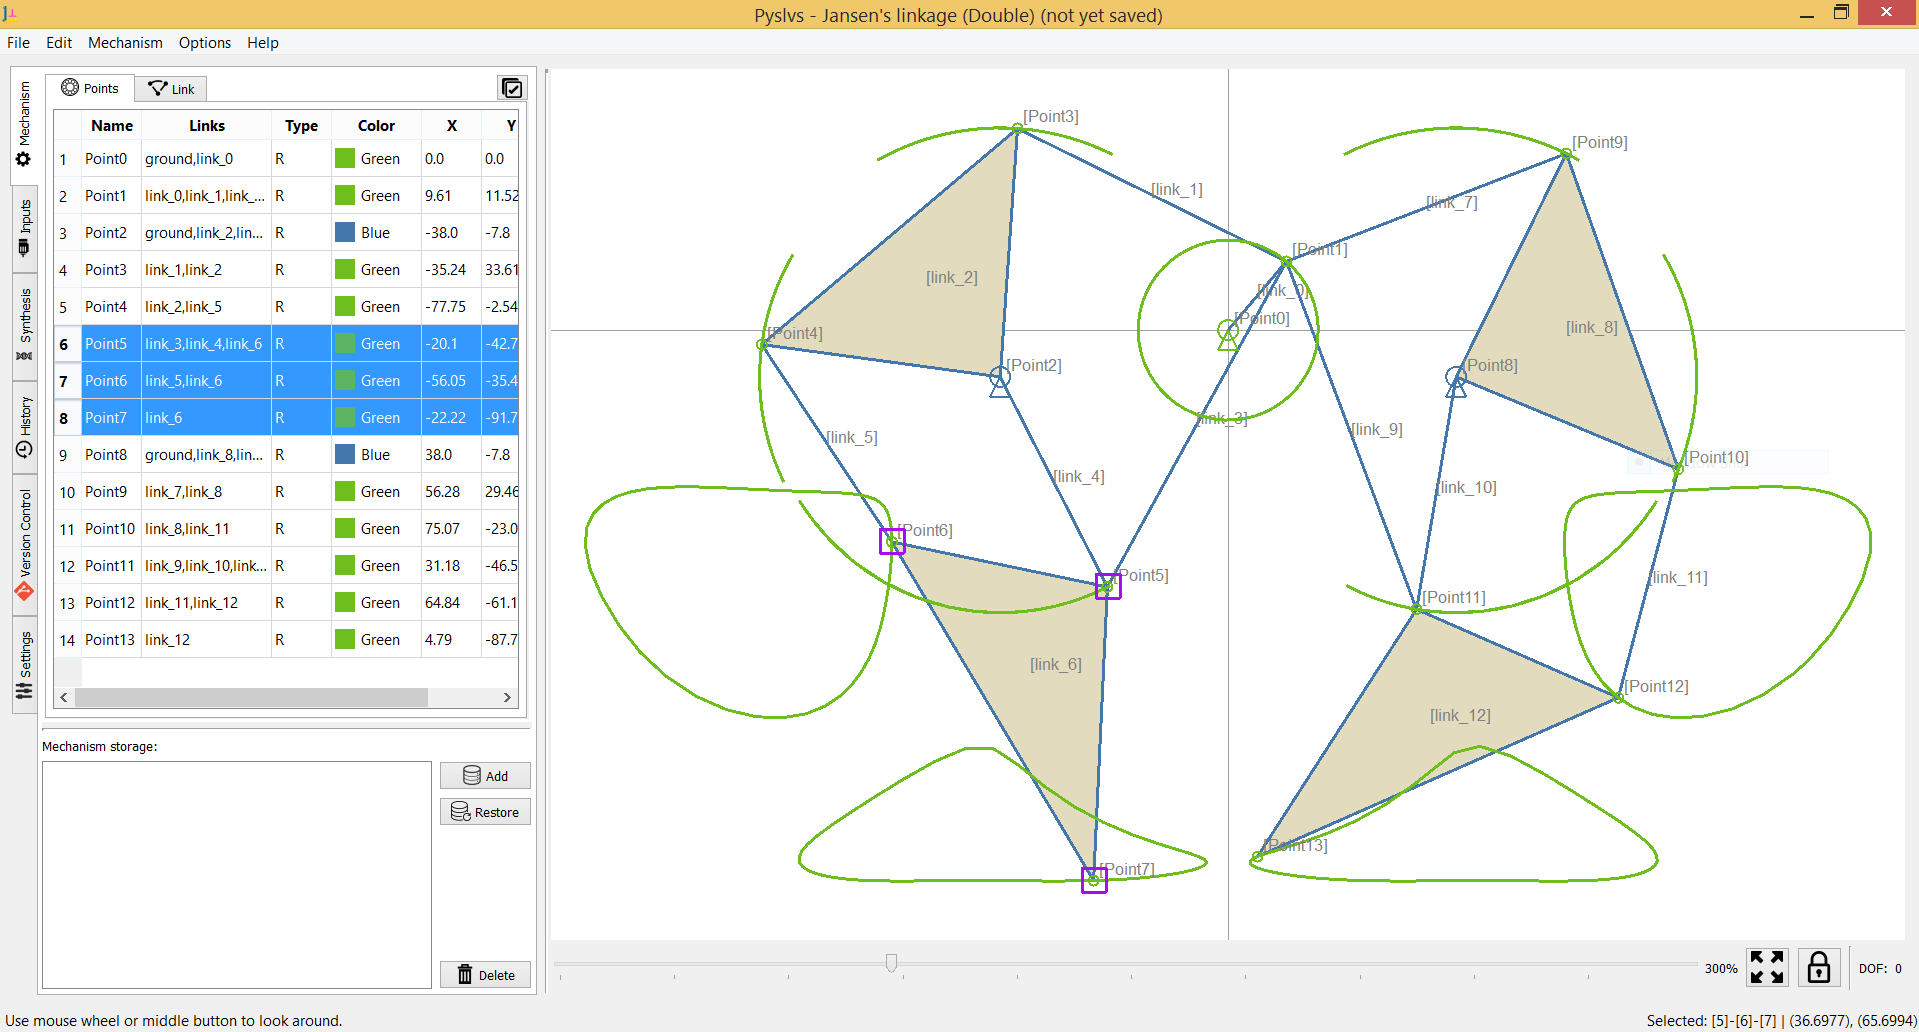
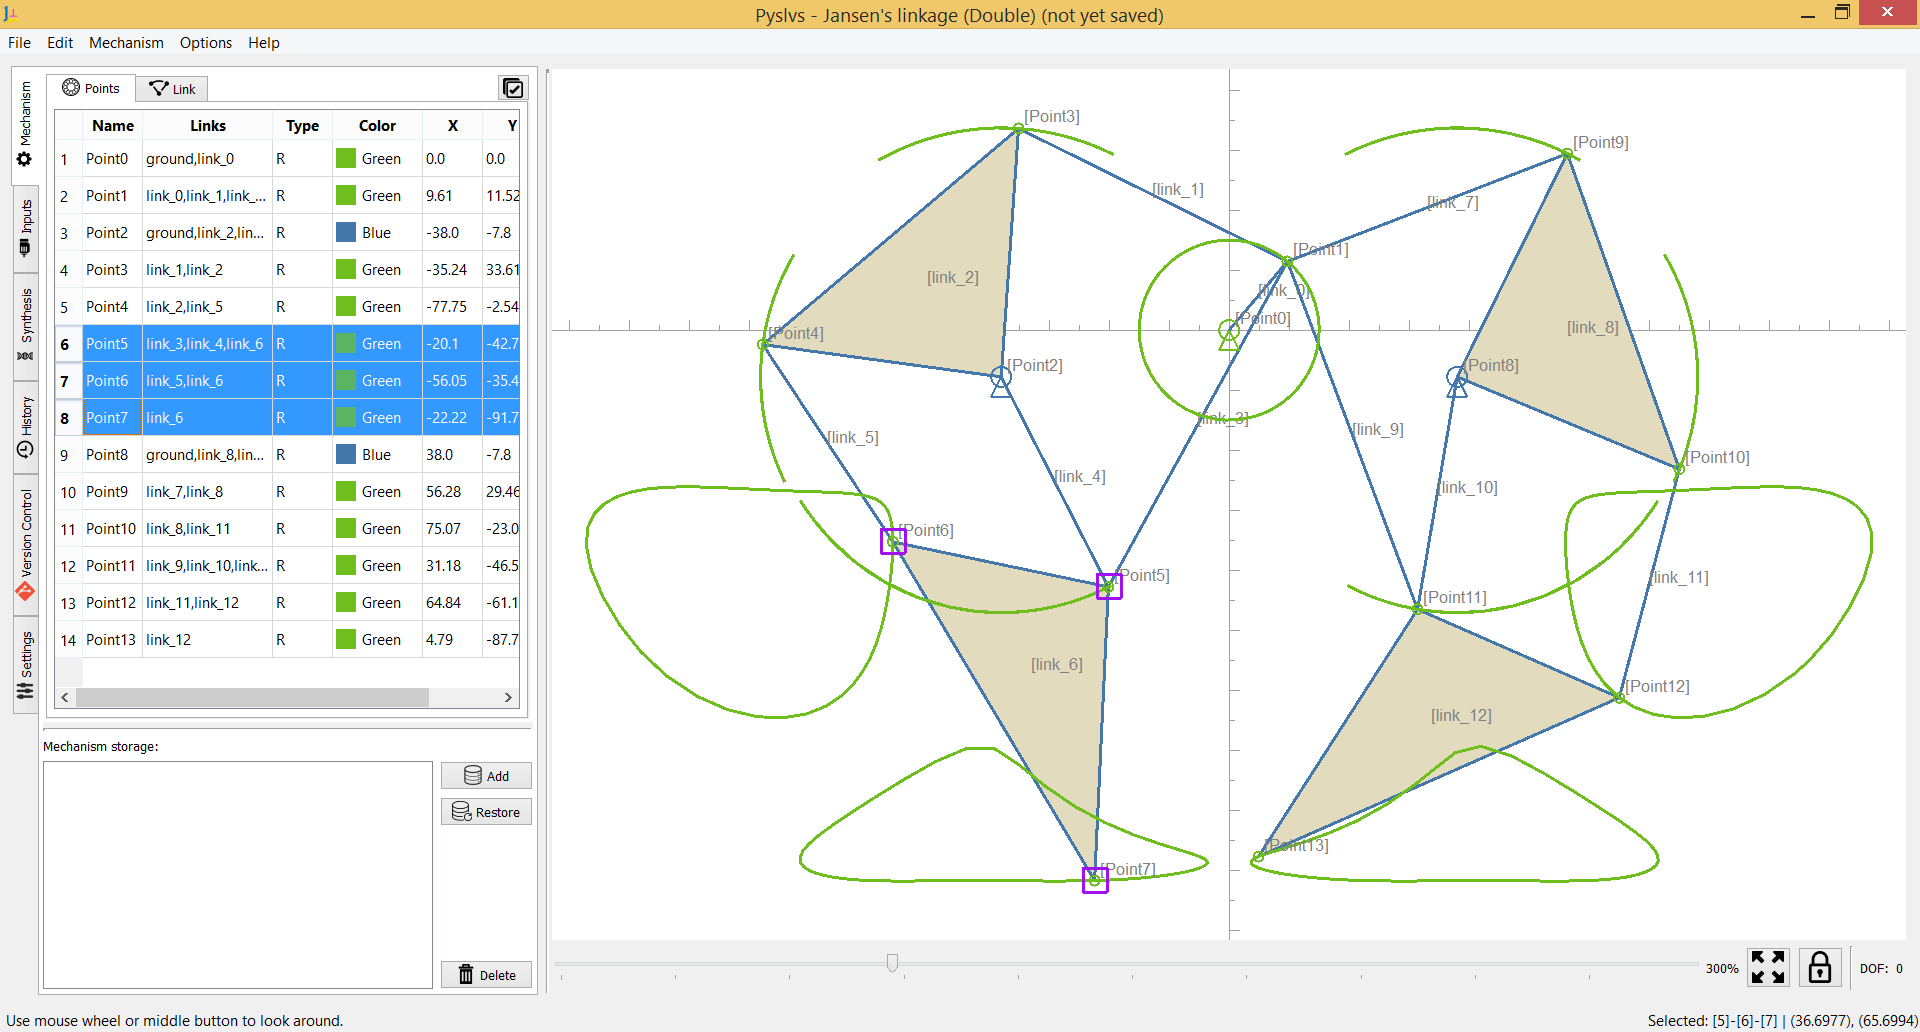
Add ticks on XY axis.

diff --git a/core/graphics/canvas.py b/core/graphics/canvas.py
@@ -97,8 +97,18 @@ class BaseCanvas(QWidget):
         pen = QPen(Qt.gray)
         pen.setWidth(1)
         self.painter.setPen(pen)
-        self.painter.drawLine(QPointF(-self.ox, 0), QPointF(self.width()-self.ox, 0))
-        self.painter.drawLine(QPointF(0, -self.oy), QPointF(0, self.height()-self.oy))
+        x_l = -self.ox
+        x_r = self.width()-self.ox
+        self.painter.drawLine(QPointF(x_l, 0), QPointF(x_r, 0))
+        y_t = self.height()-self.oy
+        y_b = -self.oy
+        self.painter.drawLine(QPointF(0, y_b), QPointF(0, y_t))
+        #Draw tick.
+        Indexing = lambda v: int(v - v%5)
+        for x in range(Indexing(x_l), Indexing(x_r), 5):
+            self.painter.drawLine(QPointF(x*self.zoom, 0), QPointF(x*self.zoom, -10 if x%10==0 else -5))
+        for y in range(Indexing(y_b), Indexing(y_t), 5):
+            self.painter.drawLine(QPointF(0, y*self.zoom), QPointF(10 if y%10==0 else 5, y*self.zoom))
     
     def drawFrame(self, pen):
         positive_x = self.width()-self.ox
